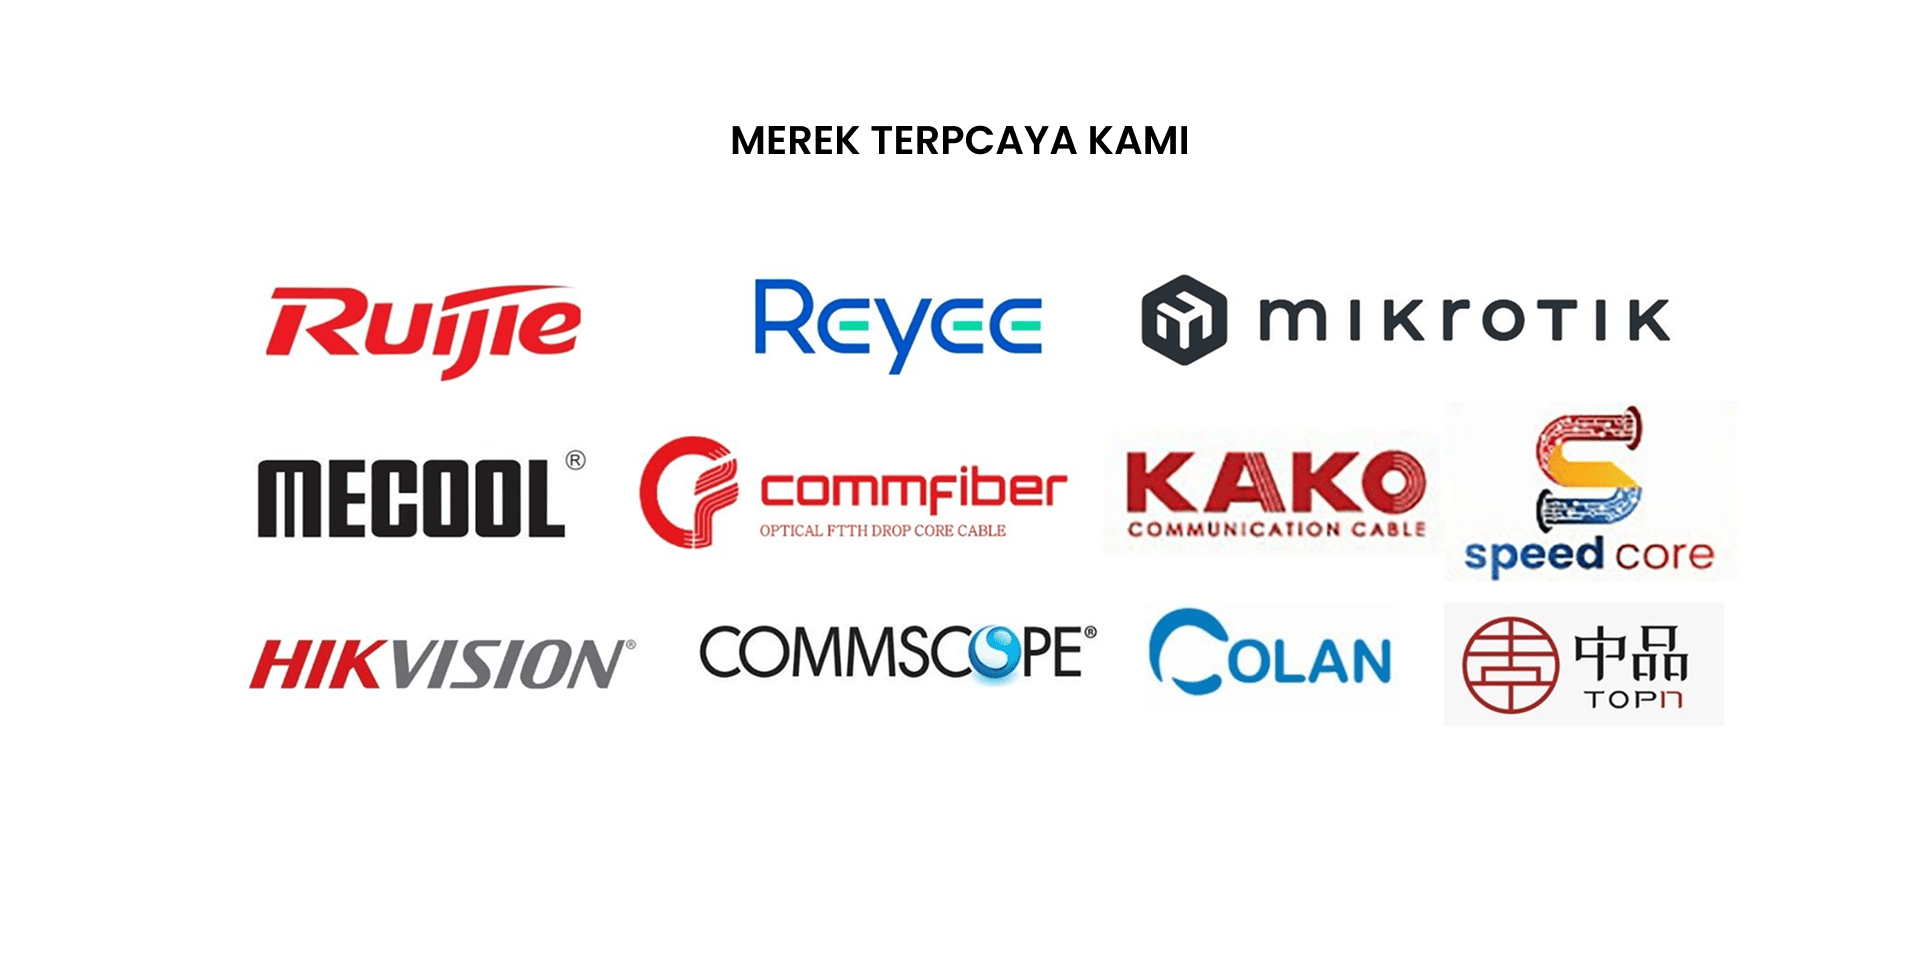
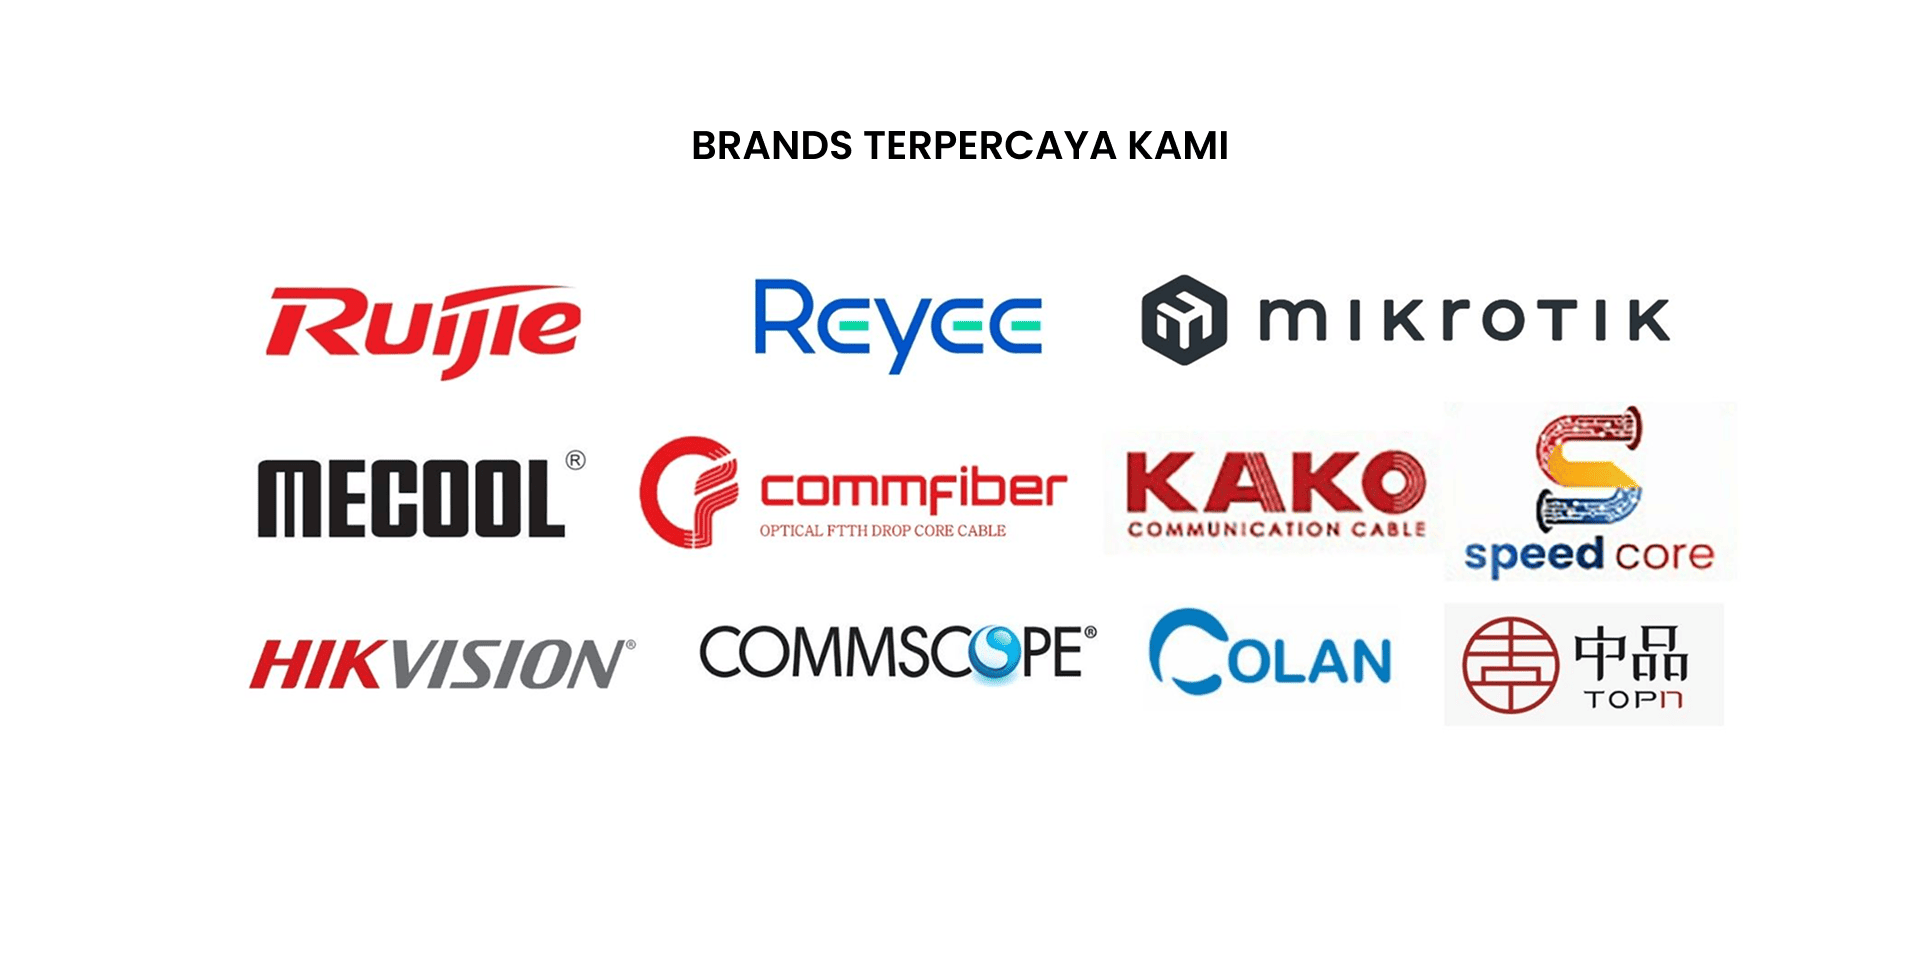
fixed brand

Changed region(s): [[0.3438, 0.1211, 0.6562, 0.1816], [0.8125, 0.5146, 0.8438, 0.5449]]

diff --git a/src/components/ChoseUs.js b/src/components/ChoseUs.js
@@ -33,7 +33,7 @@ export default function ChoseUs() {
           <div className="md:row-span-2 md:rounded-t-md rounded-r-md md:rounded-r-0 shadow shadow-black overflow-hidden flex md:flex-col flex-row">
             <div className="bg-[#ECECEC] h-[130px] md:h-full w-[45%] md:w-full  p-6 flex-1 flex flex-col order-2 text-right border rounded-r-md md:rounded-t-md md:rounded-br-none border-black">
               <h3 className="text-2xl md:text-5xl lg:text-7xl text-[#91B949] font-bold">
-                Merek
+                Brands
               </h3>
               <p className="text-[#91B949] sm:text-sm text-lg md:text-3xl lg:text-4xl font-semibold">
                 Internasional

diff --git a/src/components/navbar.js b/src/components/navbar.js
@@ -58,7 +58,7 @@ export default function Navbar() {
       <nav
         className={`fixed top-0 left-0 w-full z-50 transition-all duration-300 ${
           scrolled
-            ? "backdrop-blur-sm bg-primaryFooter/60 shadow-md"
+            ? "backdrop-blur-sm top-0 bg-primaryFooter/60 shadow-md"
             : "bg-transparent"
         } font-poppins`}
       >

diff --git a/src/components/Home.js b/src/components/Home.js
@@ -40,7 +40,7 @@ export default function Home() {
           className="mt-2 text-lg font-monospace
          font-extralight tracking-[0.3em] font-montserrat"
         >
-          INNOVATIVE, INTEGRATED, ELEVATE
+          INNOVATE, INTEGRATED, ELEVATE
         </p>
 
         {/* button CTA */}

diff --git a/src/styles/globals.css b/src/styles/globals.css
@@ -66,6 +66,7 @@ body {
 html {
   margin: 0;
   padding: 0;
+  scroll-padding-top: 75px;
   overflow-x: hidden;
   scroll-behavior: smooth;
   -webkit-user-select: none;
